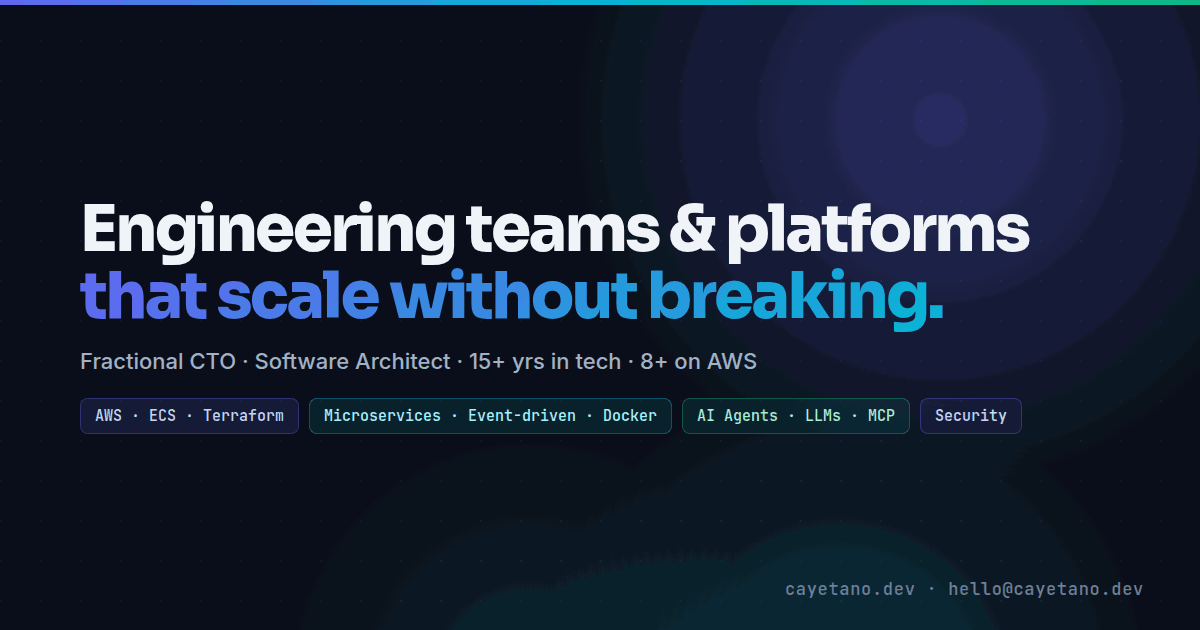
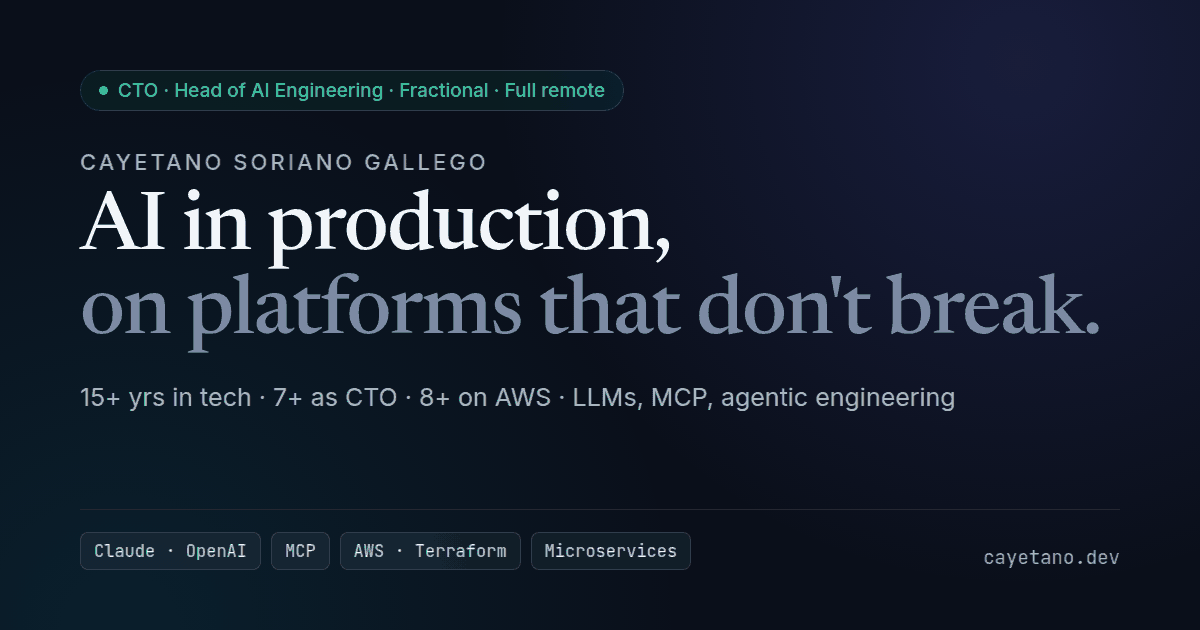
og image: AI-first card matching the redesign

diff --git a/index.html b/index.html
@@ -22,7 +22,7 @@
     <meta property="og:image" content="https://cayetano.dev/og.png">
     <meta property="og:image:width" content="1200">
     <meta property="og:image:height" content="630">
-    <meta property="og:image:alt" content="Cayetano Soriano Gallego — Fractional CTO & Software Architect">
+    <meta property="og:image:alt" content="Cayetano Soriano Gallego — CTO & AI Engineering Lead: AI in production, on platforms that don't break.">
     <meta property="og:locale" content="en_US">
     <meta property="og:locale:alternate" content="es_ES">
     <meta property="profile:first_name" content="Cayetano">
